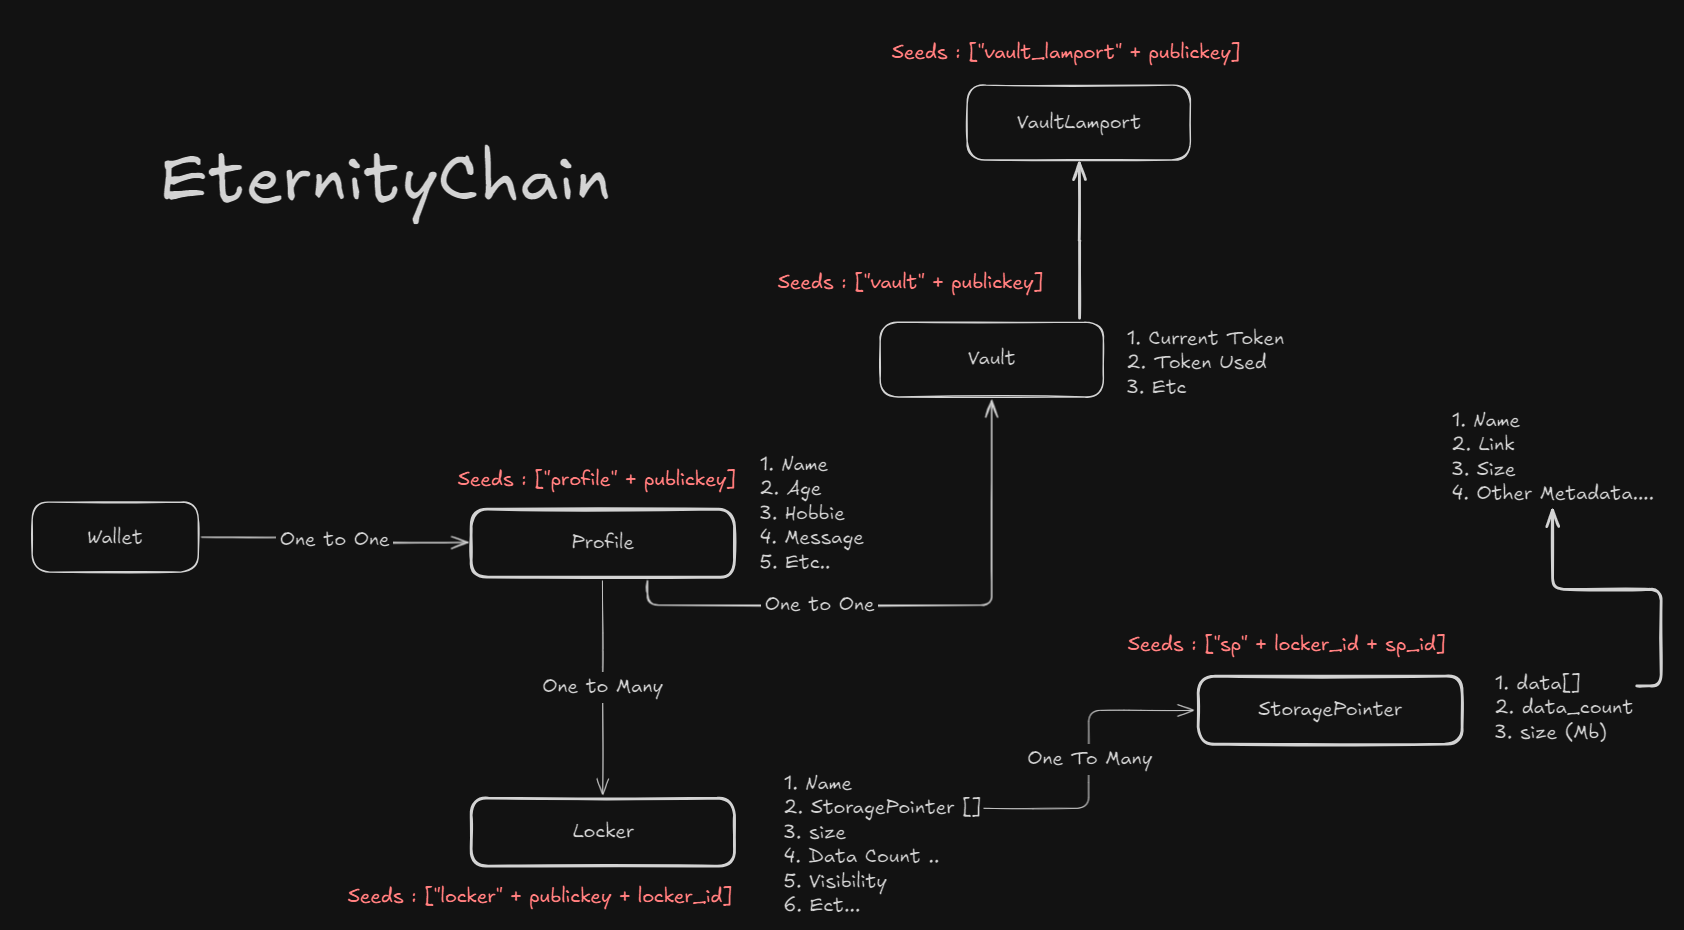
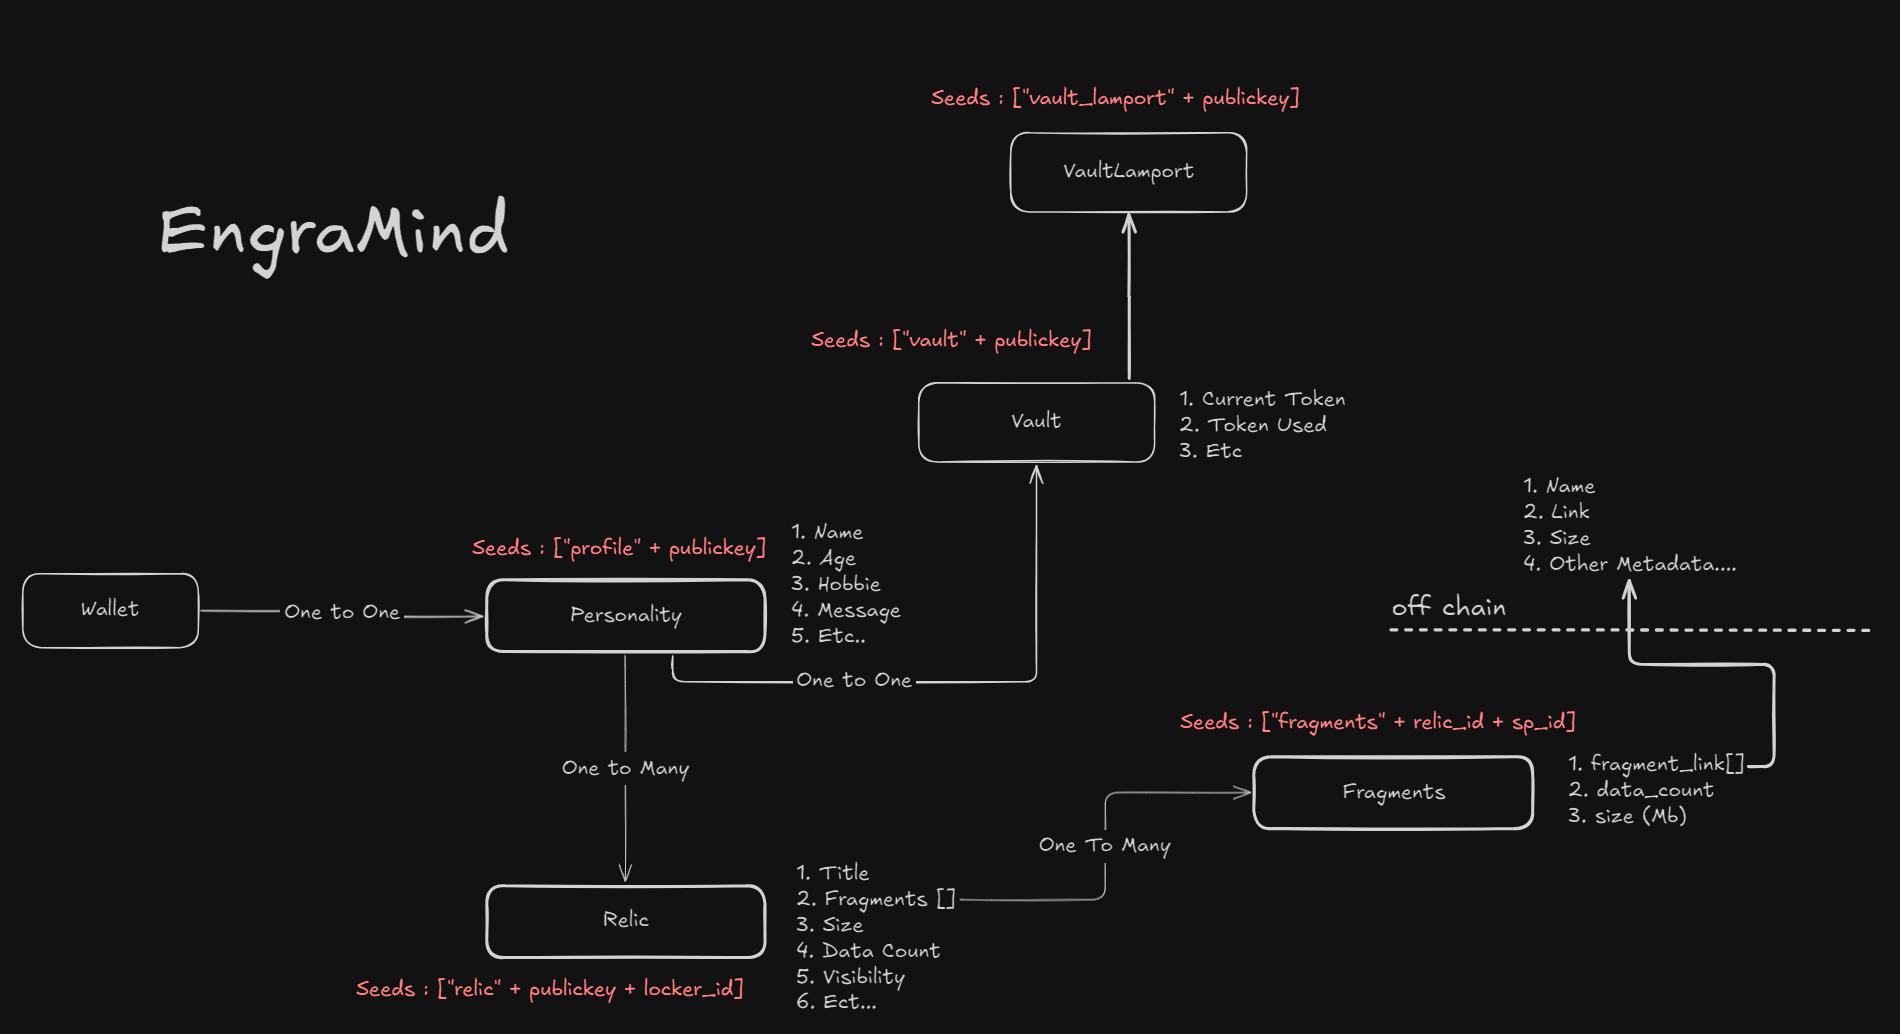
[ADJUST] update README to reflect EngraMind branding and enhance feature descriptions

diff --git a/readme.md b/readme.md
@@ -1,19 +1,43 @@
-# EternityChain Smart Contract
+# EngraMind Smart Contract
 
 ![data struct.png](assets/data-struct.png)
 
 ## Overview
 
-The **EternityChain Smart Contract** is a Solana-based program designed to manage user profiles, relics, fragments, and vaults. It provides a secure and efficient way to store and manage data on-chain, while also enabling token-based interactions. This contract is built using the Anchor framework, which simplifies Solana smart contract development.
+The **EngraMind Smart Contract** is a Solana-based program designed to manage user profiles, AI-generated relics, fragments, and vaults. It provides a secure and efficient way to store and manage data on-chain, while also enabling token-based interactions. This contract is built using the Anchor framework, which simplifies Solana smart contract development.
+
+EngraMind is an [AI+Web3 Life Monument] that enables users to immortalize their personality and build a digital legacy for future generations. By combining AI and blockchain, EngraMind ensures that memories and experiences are preserved for eternity.
+
+---
+
+## Problem Statement
+
+Memories are fleeting; life's experiences are often lost over time. Traditional records are unreliable and less engaging. EngraMind addresses this by creating AI-generated relics based on curated memories, shaping a digital legacy that is both interactive and eternal.
 
 ---
 
 ## Features
 
-- **Personality Management**: Create and manage user profiles with attributes like name, age, hobbies, and custom messages.
-- **Relic System**: Manage metadata storage with relics, including descriptions and visibility settings.
+- **AI Personality Creation**: Use the AI agentic system "Elwyn" to create a roleplay personality based on submitted datasets.
+- **Relic System**: Manage metadata storage with relics, including descriptions, visibility settings, and monetization opportunities.
 - **Fragment Management**: Handle linked data fragments for relics, supporting efficient data storage and retrieval.
 - **Vault System**: Enable token-based interactions, including buying and withdrawing tokens using lamports.
+- **C2C Monetization**: Allow users to sell their relics to others interested in their expertise or legacy.
+
+---
+
+## Technology Usage
+
+- **AI Agentic System**: "Elwyn" processes submitted data to create interactive AI personalities.
+- **Web3 Solana Smart Contract**: Binds data to the blockchain, ensuring permanence and security.
+
+---
+
+## Business Model
+
+1. **Initial Payment**: Users pay to secure a username/lot and have their data analyzed by AI.
+2. **Pay-per-Relic Creation**: Users pay for each relic they create.
+3. **C2C Revenue Opportunity**: Users can monetize their relics by selling them to others.
 
 ---
 
@@ -34,8 +58,8 @@ Before you begin, ensure you have the following installed:
 
 1. Clone the repository:
    ```bash
-   git clone https://github.com/your-repo/eternity-sc.git
-   cd eternity-sc
+   git clone https://github.com/your-repo/engramind-sc.git
+   cd engramind-sc
    ```
 
 2. Build the program:
@@ -78,7 +102,7 @@ The program is divided into the following modules (located in the `/src` folder)
 - **instructions/**: Contains all instruction handlers for managing personalities, relics, fragments, and vaults.
 - **state/**: Defines on-chain data structures for personalities, relics, fragments, and vaults.
 - **errors.rs**: Provides custom error codes and messages for validation and ownership checks.
-- **utils.rs**: Includes helper functions for lamport transfers, account reallocations, and other utilities.
+- **helper.rs**: Includes helper functions for lamport transfers, account reallocations, and other utilities.
 - **lib.rs**: The main entry point for the program, registering all modules and instructions.
 
 ### Key Concepts
